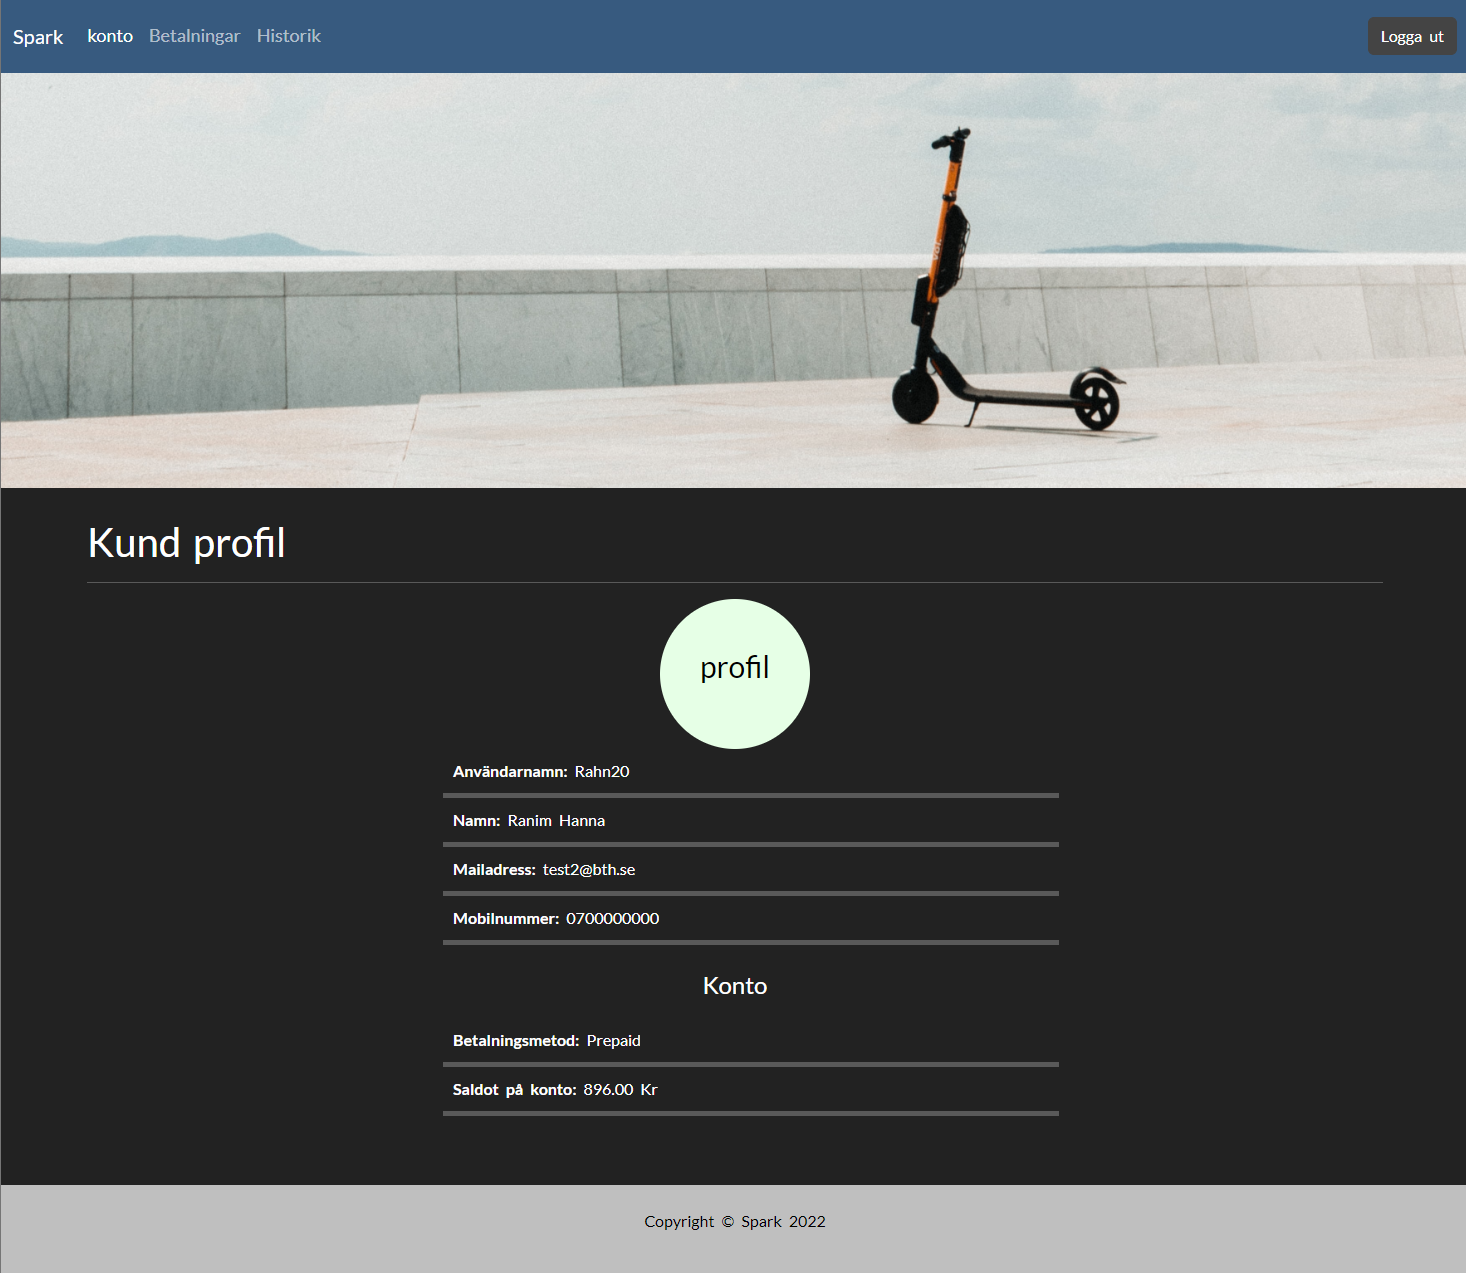
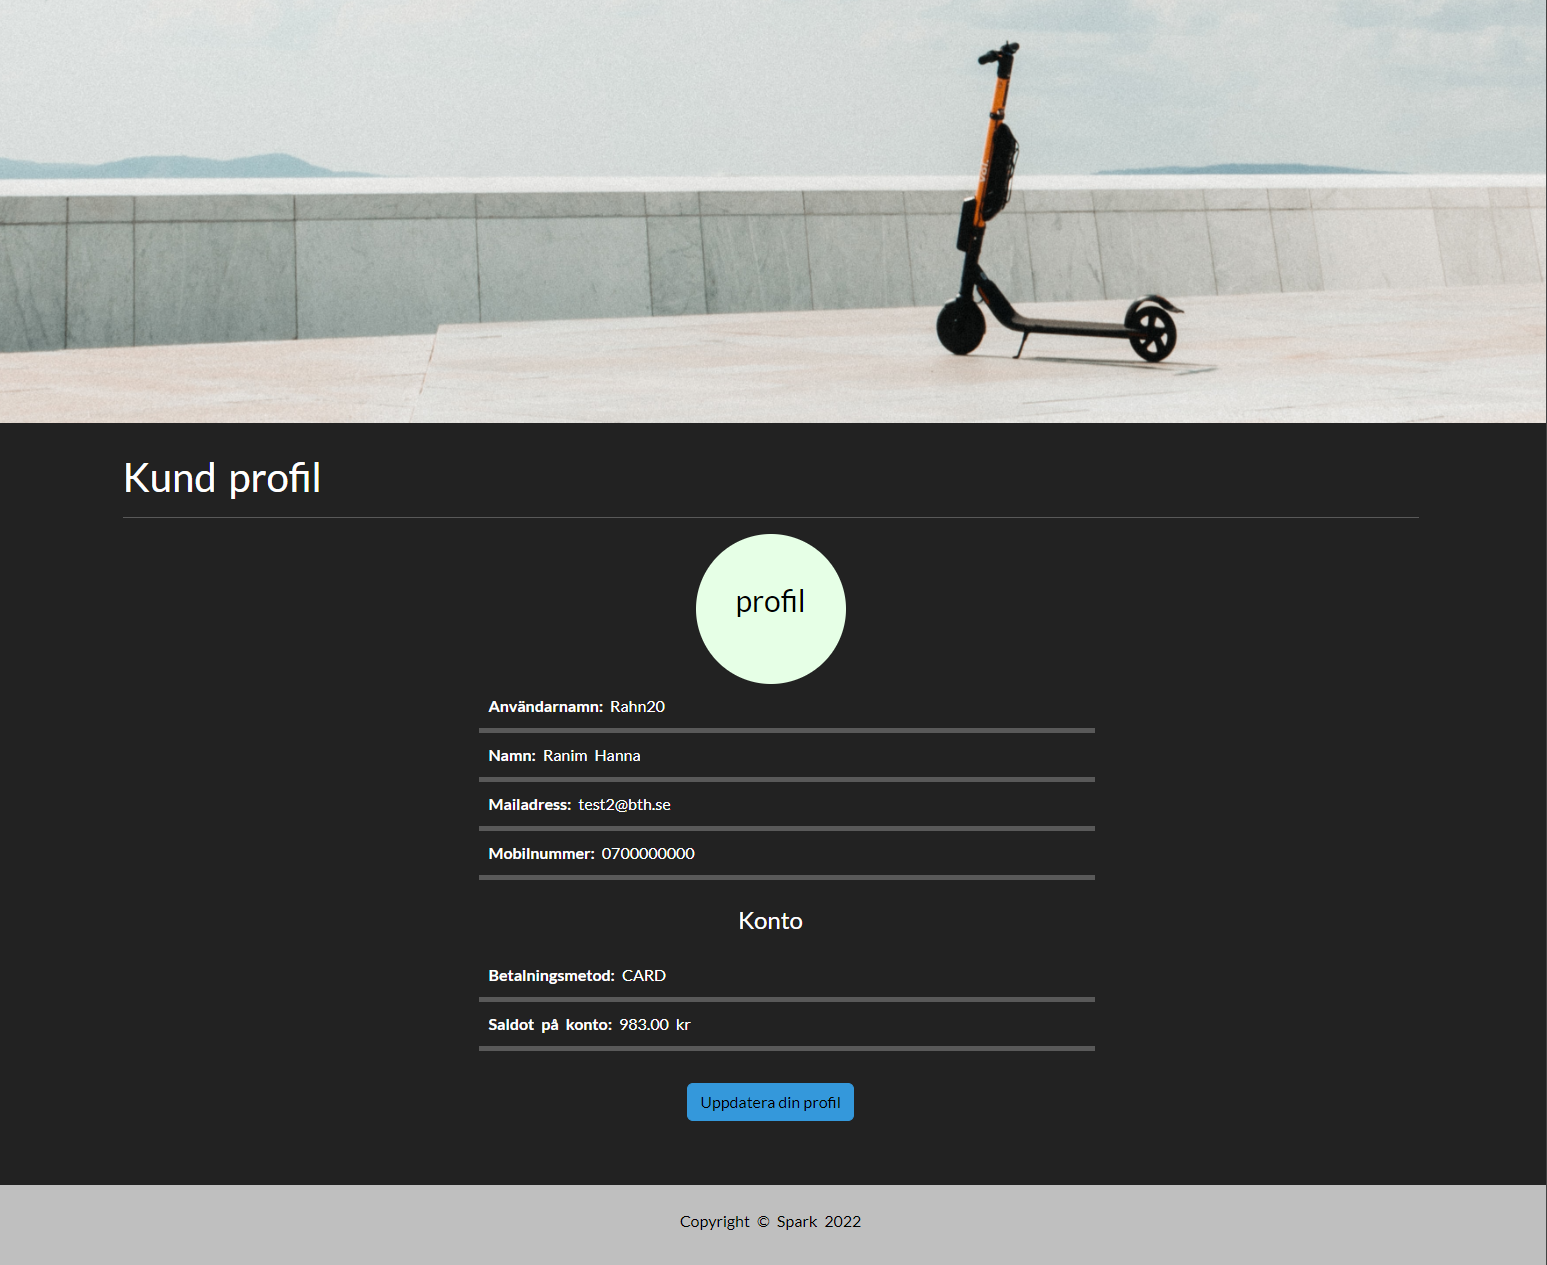
Update README.md

Changed region(s): [[0.0, 0.0, 1.0, 0.8941], [0.0, 0.9249, 1.0, 0.9866]]

diff --git a/README.md b/README.md
@@ -6,14 +6,11 @@
 
 # Spark-webclient
 
-This repository is part of a group project in Program development in virtual team course (vteam) at [Blekinge Institute of Technology](https://www.bth.se/). The group project consists of several parts, and this is one of them.
-
-**The application is under development.**
-
+This repository is part of a group project in Program development in virtual team course (Vteam) at [Blekinge Institute of Technology](https://www.bth.se/). The group project consists of several parts, and this is one of them.
 
 ![Payment page](docs/paymentPage.png)
 
-## Technologies and frameworks Used
+## Technologies and frameworks used
 * Mithril.js
 * Webpack
 * Scss
@@ -49,7 +46,7 @@ docker run --rm -it -p 1338:1338 webclient
 
 ### Installation
 
-To run the webclient locally, you need [Nodejs](https://nodejs.org/en/download/) and [npm](https://docs.npmjs.com/downloading-and-installing-node-js-and-npm) installed on your machine. Once you have Node.js and npm installed clone this repo, go to spark-webclient and run:
+To run the webclient locally, you need [Nodejs](https://nodejs.org/en/download/) and [npm](https://docs.npmjs.com/downloading-and-installing-node-js-and-npm) installed on your machine. Once you have Node.js and npm installed, clone this repo, move to spark-webclient and run:
 
 ```
 npm install
@@ -86,16 +83,26 @@ These packages have been used to test the application.
 * [Chai](https://www.npmjs.com/package/chai)
 * [Mithril-query](https://www.npmjs.com/package/mithril-query)
 * [Istanbul](https://www.npmjs.com/package/nyc)
-
+* [ESLint](https://www.npmjs.com/package/eslint)
+* [Sinon.JS](https://www.npmjs.com/package/sinon)
 
 You can run your tests using this command.
+```
+npm run mocha
+```
 
+Run tests and view code coverage
 ```
 npm run test
 ```
 
-To clean your code coverage you can run.
-
+To clean your code coverage you can use.
 ```
 npm run clean-cov
+```
+
+#### ESLint
+
+```
+npm run lint
 ```

diff --git a/docs/README.md b/docs/README.md
@@ -1,4 +1,4 @@
-# Customer website
+# Customer webpage
 
 You can find all parts (all pages) here.
 
@@ -23,15 +23,22 @@ Contains all customer profile information for the logged in customer.
 ![Profile page](profilePage.png)
 
 
+## Update profile page
+
+The customer can update his profile information.
+
+![Profile page](updateProfilePage.png)
+
+
 ## History page
 
-The customer can see a history of the trips.
+The customer can see an overview of all the trips he has made (the scooter he had rented, start and end date/time, start and end locations)
 
 ![History page](historyPage.png)
 
 
 ## Payment page
 
-The customer can add money to his account (prepaid), or let the system withdraw money every month via a payment service. The customer can also see an overview of his payments, account number, the amount he paid and the payment date.
+The customer can add money to his account and change the payment method. The customer can also see an overview of his payments, account number, the amount he paid, the payment method and payment date.
 
 ![Payment page](paymentPage.png)
